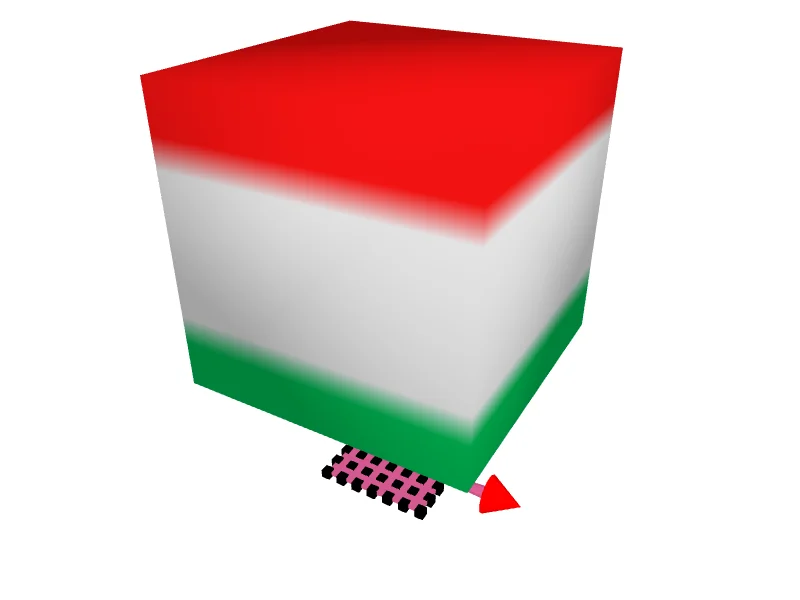
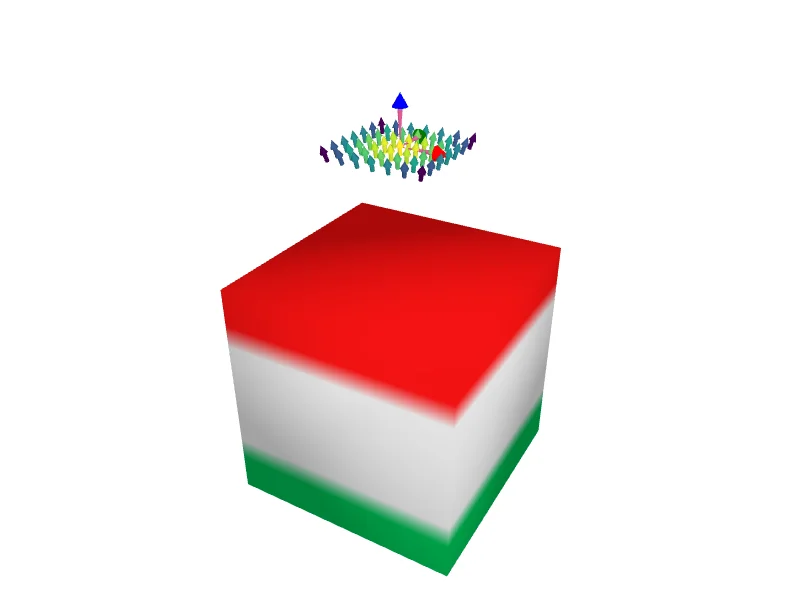
Put the probe over its magnet in the probe placement example
Under a 10 mm cube, seen from above, the 4 mm patch was hidden: the picture
was a cube and a speck. Over it, the view sees the patch, its pixels drawn as
arrows coloured by what they read, which is what the example is about: how
much the field varies across where the probe might land. The probe is drawn
as a 2 mm package, so its axes do not cover the patch.

diff --git a/magpylib_studio/session.py b/magpylib_studio/session.py
@@ -576,7 +576,7 @@ def array_scene():
 
 
 def tolerance_scene(resolution=7):
-    """A probe under a magnet, and the patch it might be misplaced within.
+    """A probe over a magnet, and the patch it might be misplaced within.
 
     The question a field map is for. A Hall sensor is placed by a pick-and-
     place machine or a person with a jig, and neither puts it exactly where
@@ -664,15 +664,27 @@ def tolerance_scene(resolution=7):
                 "id": "probe",
                 "type": "Sensor",
                 "params": {
-                    # Under the magnet by the air gap, measured from its face
+                    # Over the magnet by the air gap, measured from its face
                     # rather than its centre — which is how a gap is quoted.
-                    "position": [0, 0, "=-(mag / 2 + gap)"],
+                    # Over, not under: the view looks down on a scene, and
+                    # under the magnet the patch was hidden by it.
+                    "position": [0, 0, "=mag / 2 + gap"],
                     "pixel": [
                         [[coordinate(u), coordinate(v), 0] for u in steps]
                         for v in steps
                     ],
                 },
-                "style": {"label": "Where the probe might sit", "size": SENSOR_SIZE},
+                # each pixel an arrow coloured by what it reads, so the patch
+                # shows how much the field varies across it; the probe drawn
+                # as a small package, 2 mm, so that the patch, not its axes,
+                # is what the eye finds
+                "style": {
+                    "label": "Where the probe might sit",
+                    "size": 0.002,
+                    "pixel.field.source": "B",
+                    "pixel.field.symbol": "arrow3d",
+                    "pixel.field.colormap": "Viridis",
+                },
             },
         ],
     }
@@ -942,8 +954,9 @@ EXAMPLES = {
     ),
     "tolerance": (
         "Probe placement",
-        "A probe under a magnet and the patch it might be misplaced "
-        "within — drag the tolerance and read what it costs",
+        "A probe over a magnet and the patch it might be misplaced "
+        "within, coloured by the field — drag the tolerance and read what "
+        "it costs",
         tolerance_scene,
     ),
     "quiver": (

diff --git a/vscode-extension/CHANGELOG.md b/vscode-extension/CHANGELOG.md
@@ -17,8 +17,10 @@ Halbach rings, with their field lines, in place of the Halbach stack, and a
 Helmholtz coil pair whose variants run the currents together or against each
 other; the solenoid, which the pair shows twice over, is no longer listed. Both
 still load by name, `load_example("halbach")` and `load_example("coil")`.
-`npm run gallery` draws the pictures. The Get Started walkthrough is rewritten
-for the studio as it is now, the gallery its first step.
+`npm run gallery` draws the pictures. In the probe placement example the probe
+sits over the magnet, where the view sees it, its patch drawn as field arrows.
+The Get Started walkthrough is rewritten for the studio as it is now, the
+gallery its first step.
 
 </details>
 
